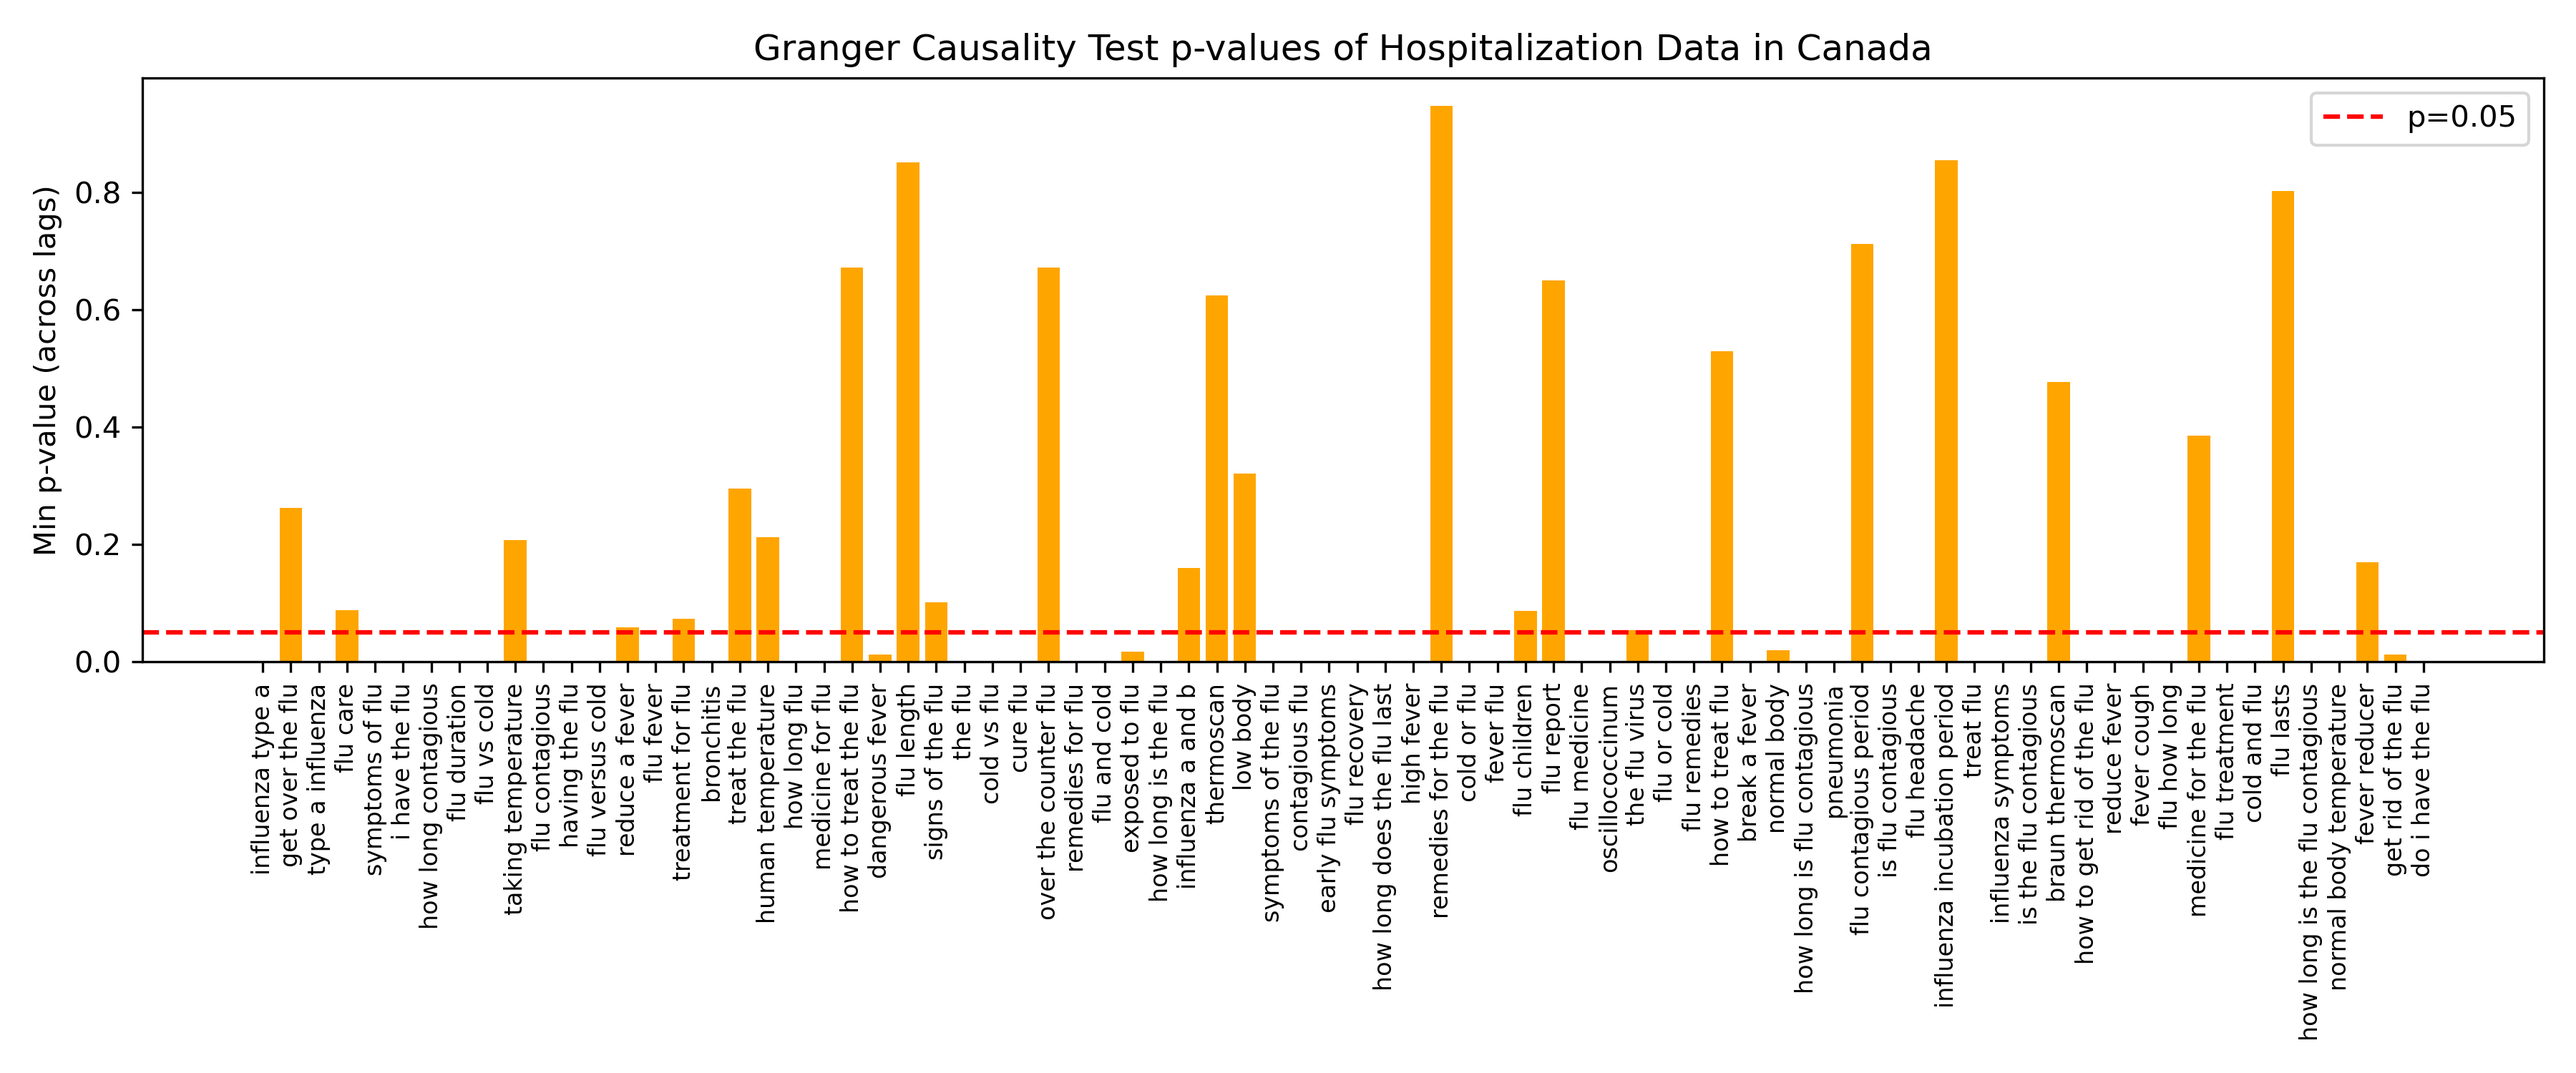
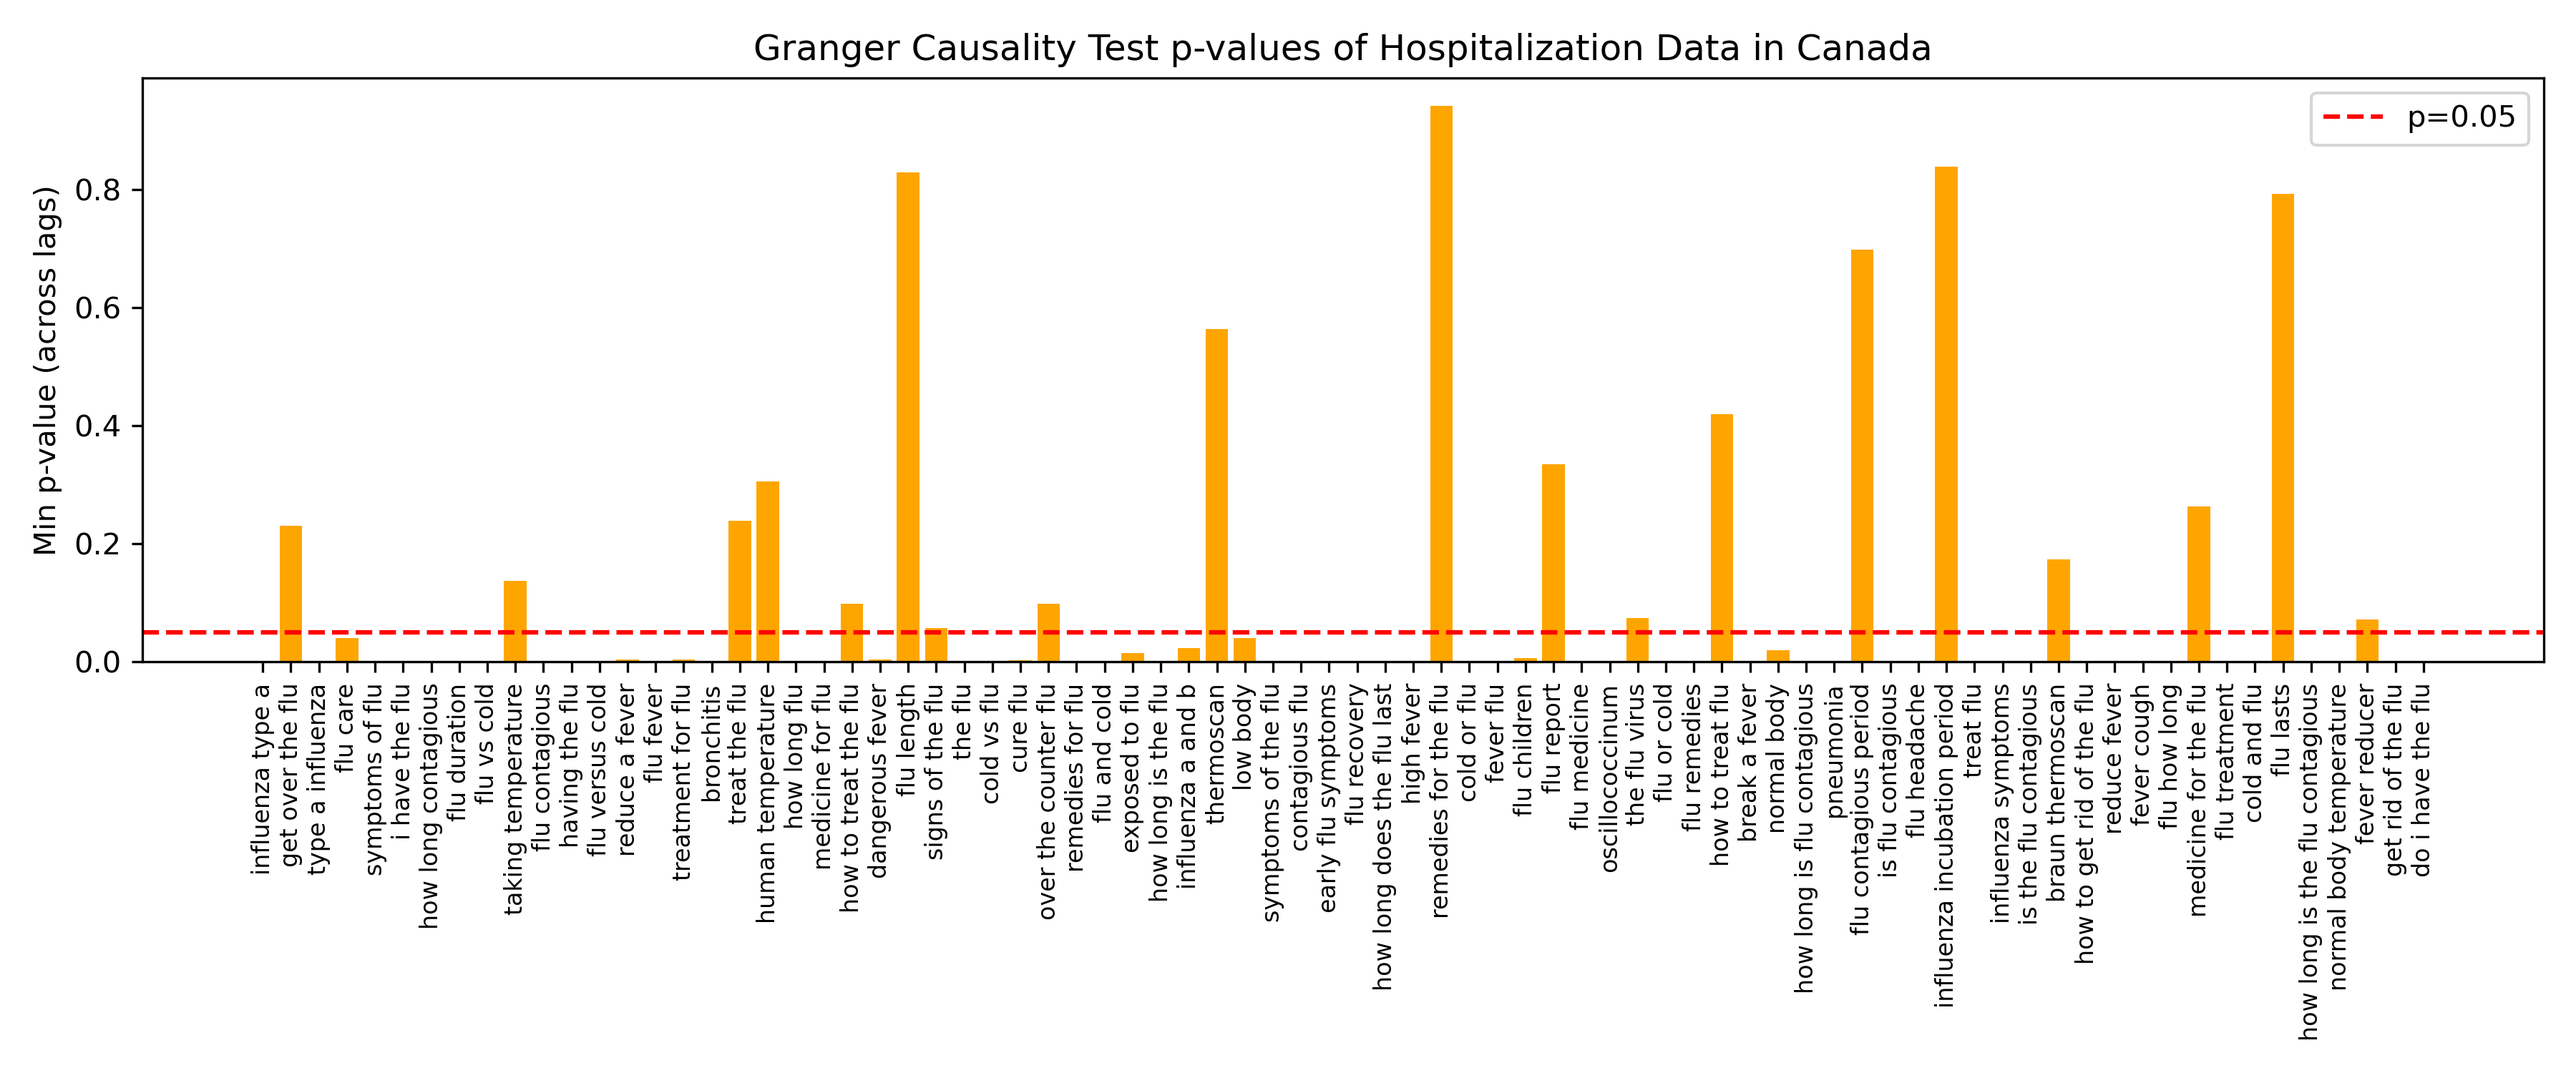
grangercausality

diff --git a/Code/granger_causality_rvdss.py b/Code/granger_causality_rvdss.py
@@ -5,7 +5,7 @@ from statsmodels.tsa.stattools import grangercausalitytests
 from scipy.stats import f
 
 # --- CONFIGURABLE SECTION ---
-max_lag = 3  # Number of lags
+max_lag = 5  # Number of lags
 # ----------------------------
 response_var = 'flu_pct_positive'  # The dependent variable in the flu data
 
@@ -26,7 +26,6 @@ df_search['WEEK'] = df_search['Week'].dt.isocalendar().week
 df_flu['Week'] = pd.to_datetime(df_flu['time_value'])
 df_flu['YEAR'] = df_flu['Week'].dt.isocalendar().year
 df_flu['WEEK'] = df_flu['Week'].dt.isocalendar().week
-
 #print(df_flu[['YEAR', 'WEEK', 'time']].head())
 #print(df_flu.columns)
 
@@ -59,7 +58,7 @@ for lag in range(1, max_lag + 1):
         all_lags.append(lag_col)
 df_flu = df_flu.drop(['sarscov2_pct_positive', 'rsv_pct_positive'], axis=1)
 df_flu = df_flu.dropna()
-
+df_flu = df_flu.loc[:, (df_flu != 0).any(axis=0)]
 
 # Only use lag columns that exist in df_flu
 existing_flu_lags = [col for col in flu_lags if col in df_flu.columns]
@@ -86,9 +85,15 @@ for term in search_terms_simple:
     if term not in df_flu.columns:
         print(f"Skipping {term}: not in DataFrame")
         continue
-    print(f"\nGranger causality test for {term}:")
     data = df_flu[[response_var, term]]
-    grangercausalitytests(data, maxlag=max_lag)
+    # Skip if the predictor is constant
+    if data[term].nunique() <= 1:
+        print(f"Skipping {term}: constant after lagging")
+        continue
+    try:
+        grangercausalitytests(data, maxlag=max_lag)
+    except Exception as e:
+        print(f"Skipping {term}: {e}")
 
 import matplotlib.pyplot as plt
 granger_pvals = []
@@ -97,11 +102,18 @@ for term in search_terms_simple:
     if term not in df_flu.columns:
         continue
     data = df_flu[[response_var, term]]
-    results = grangercausalitytests(data, maxlag=max_lag, verbose=False)
-    min_p = min([results[lag][0]['ssr_ftest'][1] for lag in range(1, max_lag+1)])
-    granger_pvals.append(min_p)
-    valid_terms.append(term)
-
+    # Skip if the predictor is constant
+    if data[term].nunique() <= 1:
+        print(f"Skipping {term} in plotting: constant after lagging")
+        continue
+    try:
+        results = grangercausalitytests(data, maxlag=max_lag, verbose=False)
+        min_p = min([results[lag][0]['ssr_ftest'][1] for lag in range(1, max_lag+1)])
+        granger_pvals.append(min_p)
+        valid_terms.append(term)
+    except Exception as e:
+        print(f"Skipping {term} in plotting: {e}")
+    
 plt.figure(figsize=(12, 5))
 plt.bar(valid_terms, granger_pvals, color='orange')
 plt.ylabel('Min p-value (across lags)')

diff --git a/Code/granger_causality_icl_nrevss.py b/Code/granger_causality_icl_nrevss.py
@@ -5,7 +5,7 @@ from statsmodels.tsa.stattools import grangercausalitytests
 from scipy.stats import f
 
 # --- CONFIGURABLE SECTION ---
-max_lag = 3  # Number of lags
+max_lag = 5  # Number of lags
 # ----------------------------
 response_var = 'total_flu_positives'  # The dependent variable in the flu data
 

diff --git a/Code/granger_causality_ili_us.py b/Code/granger_causality_ili_us.py
@@ -5,7 +5,7 @@ from statsmodels.tsa.stattools import grangercausalitytests
 from scipy.stats import f
 
 # --- CONFIGURABLE SECTION ---
-max_lag = 3  # Number of lags
+max_lag = 5  # Number of lags
 # ----------------------------
 response_var = '% WEIGHTED ILI'  # The dependent variable in the flu data
 

diff --git a/Code/granger_causality_hospitalization.py b/Code/granger_causality_hospitalization.py
@@ -5,7 +5,7 @@ from statsmodels.tsa.stattools import grangercausalitytests
 from scipy.stats import f
 
 # --- CONFIGURABLE SECTION ---
-max_lag = 3  # Number of lags
+max_lag = 5  # Number of lags
 # ----------------------------
 response_var = 'flu'  # The dependent variable in the flu data
 
